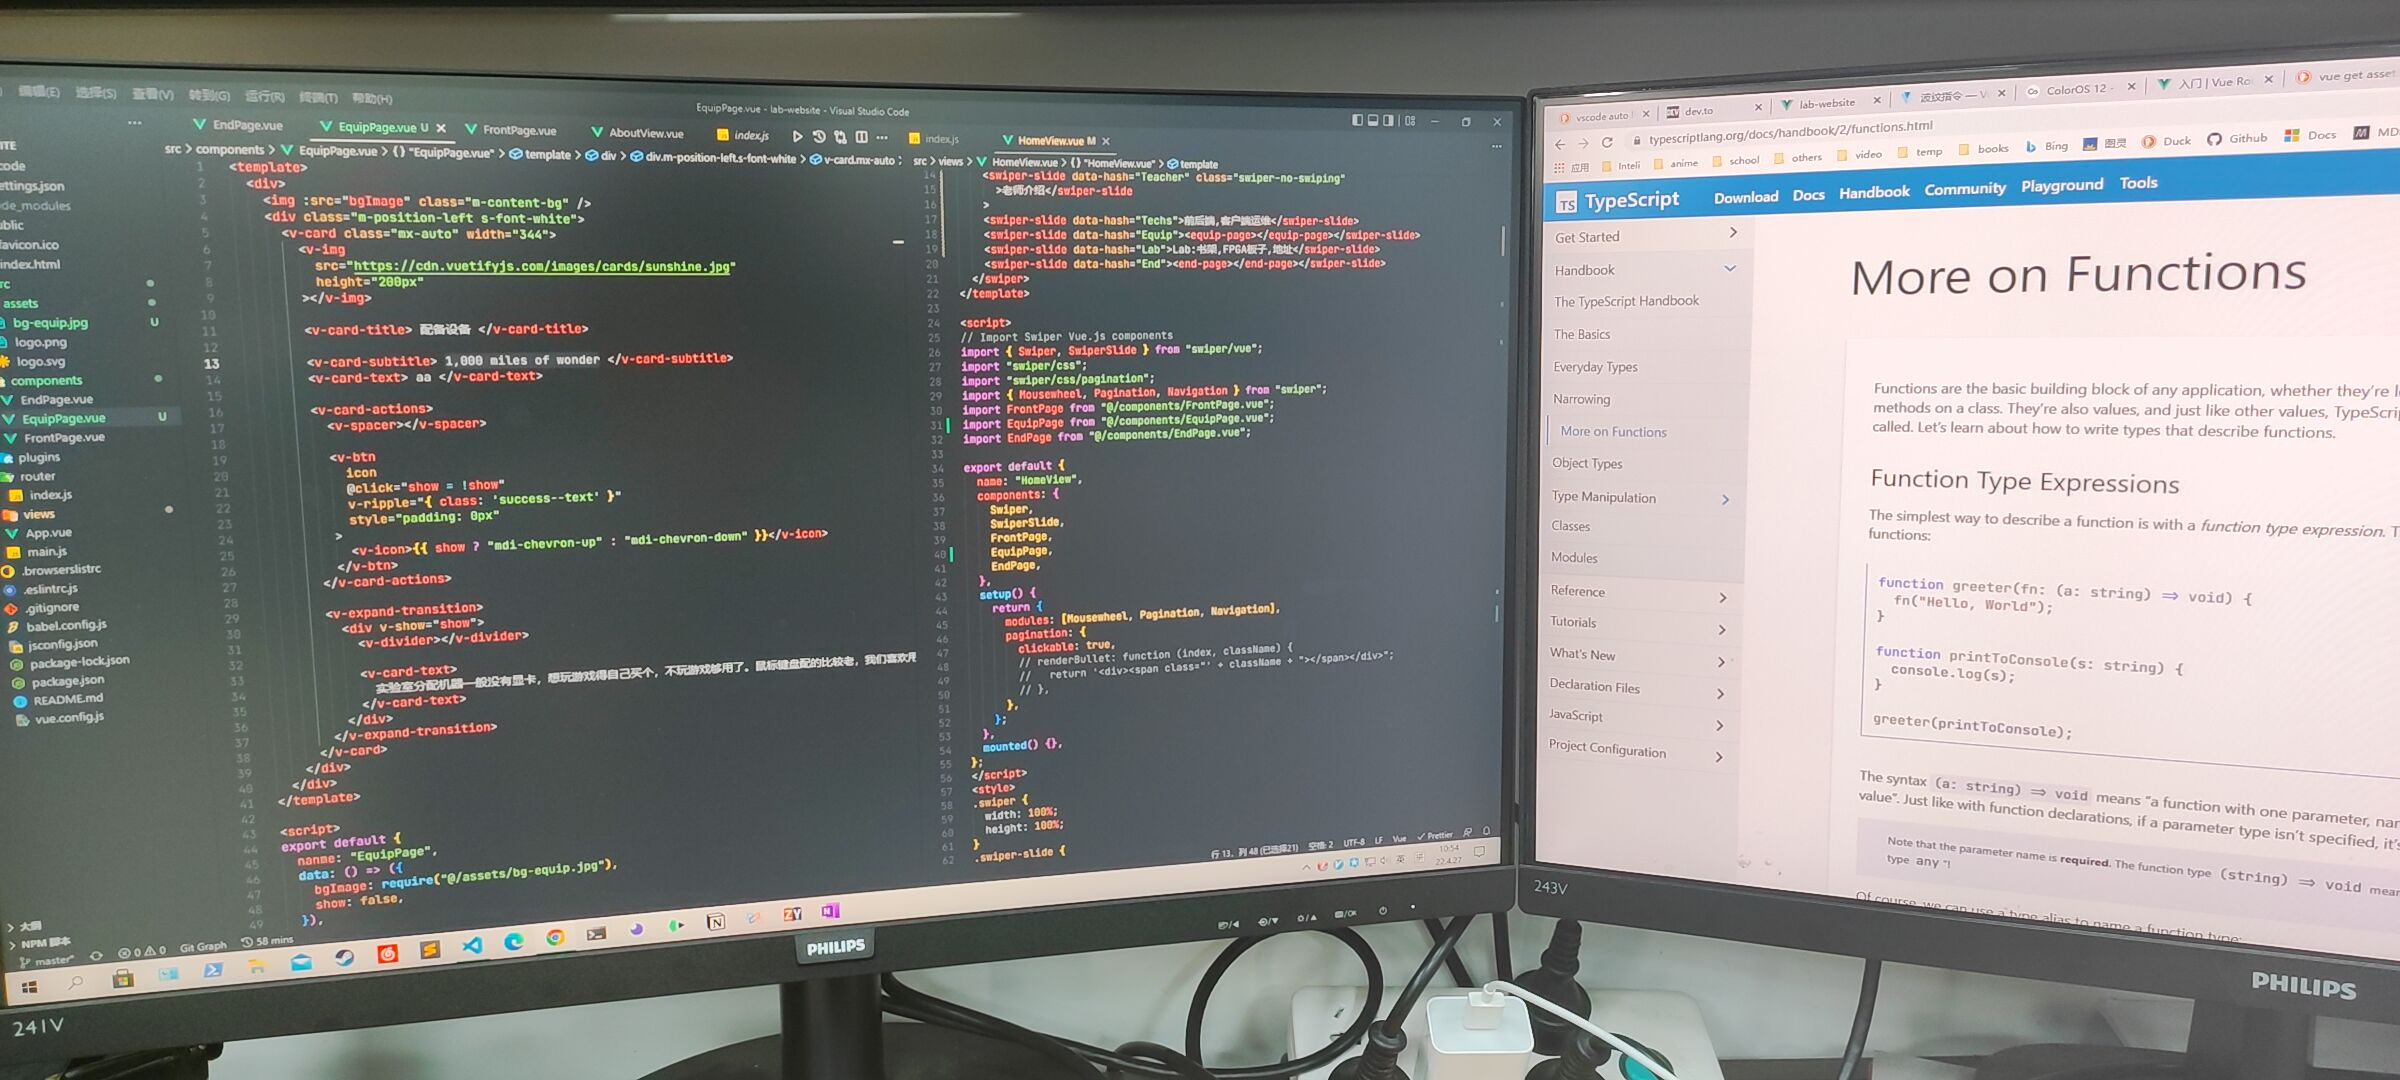
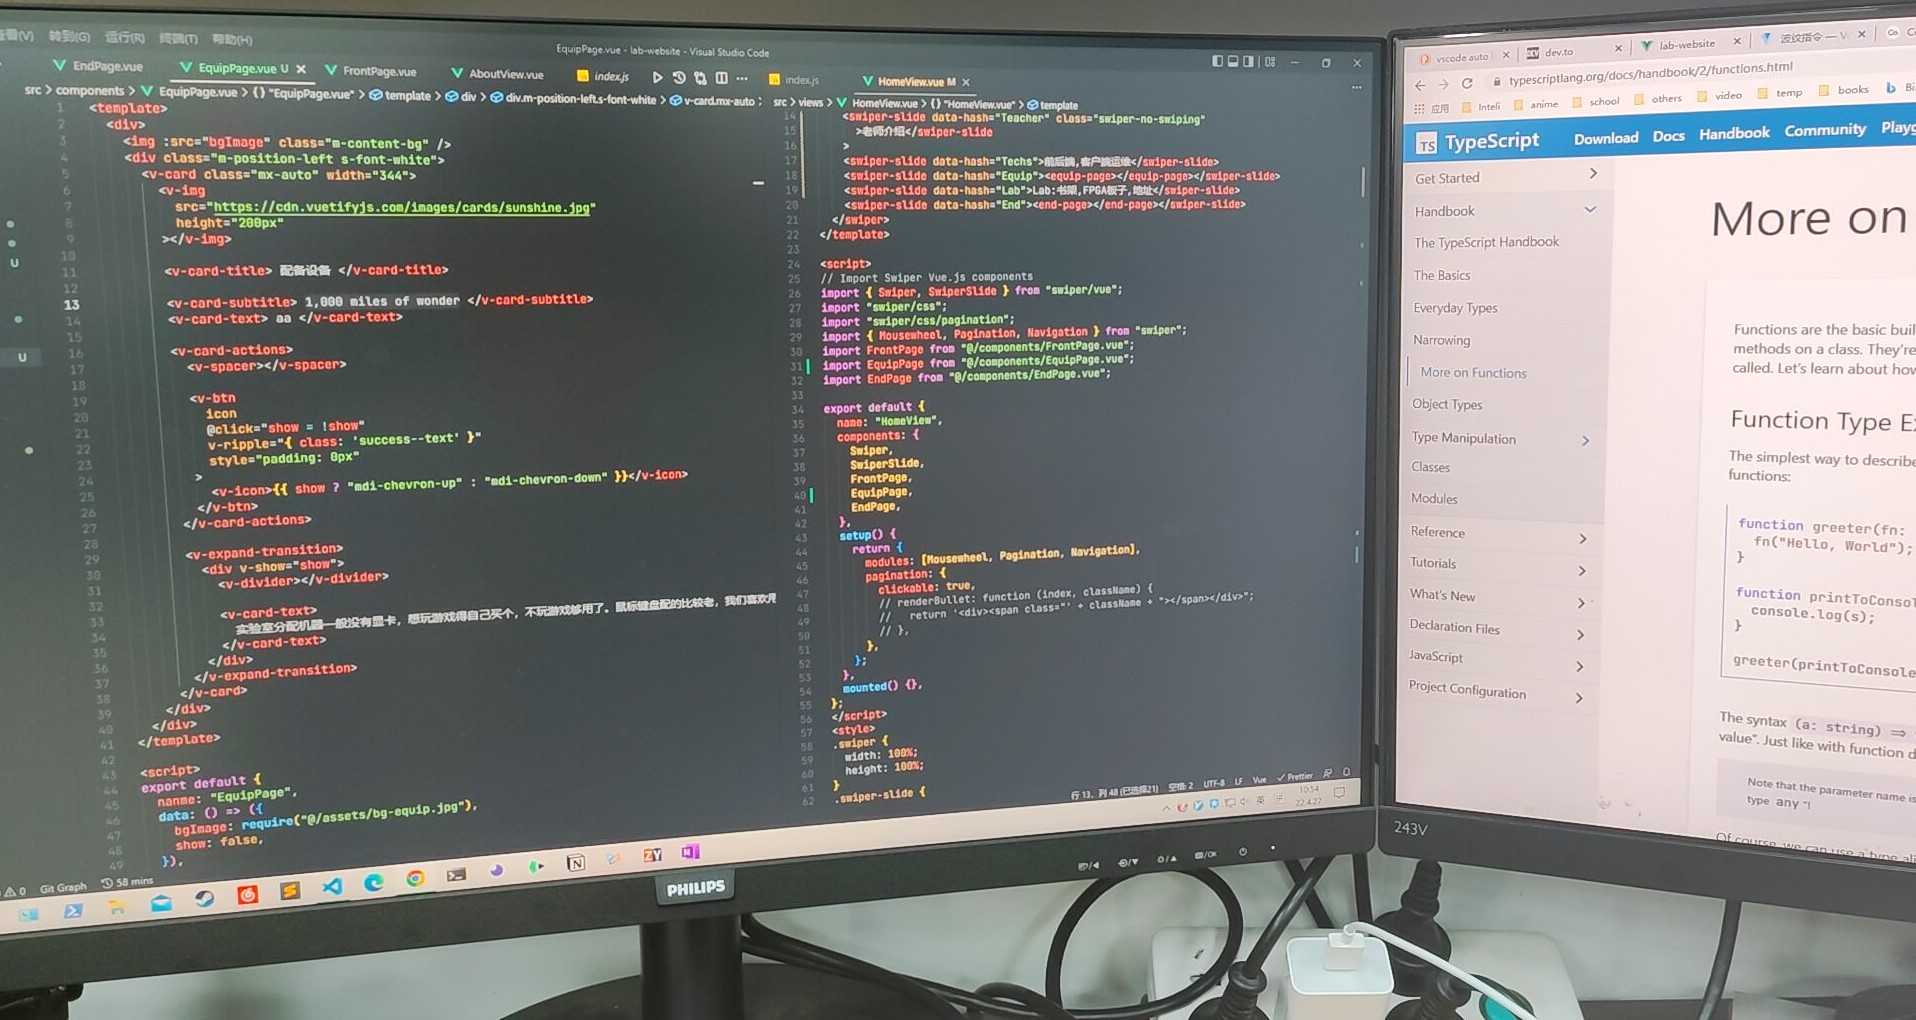
adding animation, TeacherIntro page

diff --git a/src/components/TeacherIntro.vue b/src/components/TeacherIntro.vue
@@ -1,0 +1,84 @@
+<template>
+  <div class="m-container">
+    <img :src="bgImage" class="m-content-bg" />
+    <div class="m-teacher-pic m-skew">
+      <v-img :src="teacherImage" height="100%" width="100%"></v-img>
+    </div>
+    <div class="m-teacher-intro m-skew" :class="{ 'a-slide-x': enter }">
+      介绍
+    </div>
+  </div>
+</template>
+
+<script>
+import { useSwiperSlide } from "swiper/vue";
+
+export default {
+  name: "TeacherIntro",
+  setup() {
+    const swiperSlide = useSwiperSlide();
+    return {
+      swiperSlide,
+    };
+  },
+  data: () => ({
+    bgImage: require("@/assets/bg-dark-blur.jpg"),
+    teacherImage: require("@/assets/bg-test.jpg"),
+    enter: false,
+  }),
+  watch: {
+    swiperSlide(newV, oldV) {
+      if (newV.isActive === true) {
+        this.enter = true;
+      } else {
+        this.enter = false;
+      }
+    },
+  },
+};
+</script>
+
+<style scoped>
+.m-container {
+  display: flex;
+  height: 100%;
+  width: 100%;
+  justify-content: center;
+  align-items: center;
+}
+.m-teacher-pic {
+  margin-left: 4em !important;
+  transform: skew(-10deg);
+  color: white;
+  width: 300px;
+  height: 420px;
+}
+.m-teacher-intro {
+  margin-right: 4em !important;
+  padding: 10px;
+  color: white;
+  width: 600px;
+  height: 400px;
+  border-left: 4px solid white;
+  transform: skew(-10deg) translate(100px, 0);
+  transition: transform 0.2s ease 0.1s;
+}
+.m-skew {
+  margin: 40px;
+  background-color: rgb(0 0 0 / 70%);
+  box-shadow: 3px 3px 8px 2px rgb(0 0 0 / 36%);
+  transition-property: padding, height, width, transform;
+  transition-duration: 0.1s;
+  transition-timing-function: ease;
+}
+.m-teacher-intro:hover {
+  padding: 20px;
+}
+.m-teacher-pic:hover {
+  height: 440px;
+  width: 320px;
+}
+.a-slide-x {
+  transform: skew(-10deg) translate(0px, 0);
+}
+</style>

diff --git a/src/views/HomeView.vue b/src/views/HomeView.vue
@@ -14,7 +14,9 @@
   >
     <swiper-slide data-hash="Front"><front-page></front-page></swiper-slide>
     <swiper-slide data-hash="Study">研究方向</swiper-slide>
-    <swiper-slide data-hash="Teacher">老师介绍</swiper-slide>
+    <swiper-slide data-hash="Teacher"
+      ><teacher-intro></teacher-intro
+    ></swiper-slide>
     <swiper-slide data-hash="Techs">前后端,客户端运维</swiper-slide>
     <swiper-slide data-hash="Equip"><equip-page></equip-page></swiper-slide>
     <swiper-slide data-hash="Lab">Lab:书架,FPGA板子,地址</swiper-slide>
@@ -29,6 +31,7 @@ import "swiper/css";
 import "swiper/css/pagination";
 import { Mousewheel, Pagination, Navigation } from "swiper";
 import FrontPage from "@/components/FrontPage.vue";
+import TeacherIntro from "@/components/TeacherIntro.vue";
 import EquipPage from "@/components/EquipPage.vue";
 import ReturnTop from "@/components/common/ReturnTop.vue";
 
@@ -38,6 +41,7 @@ export default {
     Swiper,
     SwiperSlide,
     FrontPage,
+    TeacherIntro,
     EquipPage,
     ReturnTop,
   },

diff --git a/src/components/common/ReturnTop.vue b/src/components/common/ReturnTop.vue
@@ -1,9 +1,11 @@
 <template>
-  <div class="u-icon-return" v-show="show">
-    <v-btn icon @click="returnTop" class="swiper-no-swiping" :elevation="5">
-      <v-icon>mdi-arrow-up</v-icon>
-    </v-btn>
-  </div>
+  <v-slide-y-reverse-transition>
+    <div class="u-icon-return" v-show="show">
+      <v-btn icon @click="returnTop" class="swiper-no-swiping" :elevation="5">
+        <v-icon>mdi-arrow-up</v-icon>
+      </v-btn>
+    </div>
+  </v-slide-y-reverse-transition>
 </template>
 
 <script>

diff --git a/.eslintrc.js b/.eslintrc.js
@@ -15,5 +15,6 @@ module.exports = {
     "no-console": process.env.NODE_ENV === "production" ? "warn" : "off",
     "no-debugger": process.env.NODE_ENV === "production" ? "warn" : "off",
     "no-unused-vars": "off",
+    "linebreak-style": 0,
   },
 };
